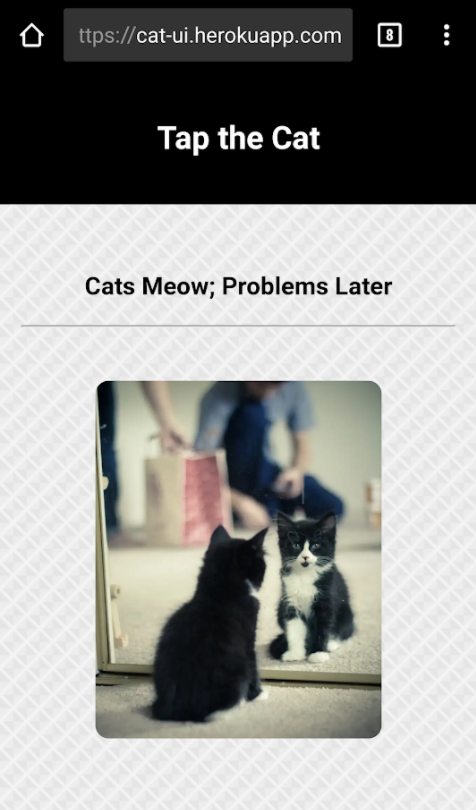
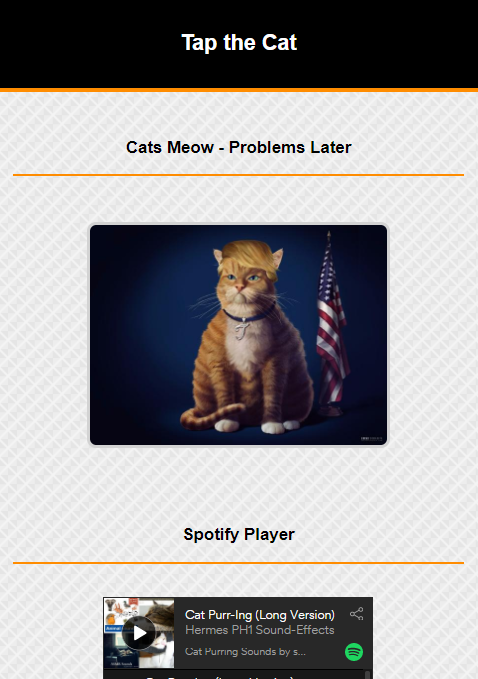
style updates and added credits

diff --git a/src/App.js b/src/App.js
@@ -12,6 +12,7 @@ const Title = styled.div`
   margin: auto;
   padding: 1em;
   margin-bottom: 1em;
+  border-bottom: 0.25em solid darkorange;
 `;
 
 const Middle = styled.div``;
@@ -23,6 +24,12 @@ const Footer = styled.div`
   margin: auto;
   padding: 1em;
   margin-top: 1em;
+  border-top: 0.25em solid darkorange;
+`;
+
+const Linkage = styled.a`
+  color: darkorange;
+  text-decoration: none;
 `;
 
 const size = {
@@ -42,14 +49,12 @@ class App extends Component {
         <Flex flexWrap="wrap">
           <Box p={3} width={[1, 3 / 4]}>
             <Middle>
-              <h3>Cats Meow; Problems Later</h3>
-              <hr />
+              <h3>Cats Meow - Problems Later</h3>
               <Cat />
             </Middle>
           </Box>
           <Box p={3} width={[1, 1 / 4]}>
             <h3>Spotify Player</h3>
-            <hr />
             <br />
             <SpotifyPlayer
               uri="https://open.spotify.com/user/scott04069419/playlist/721IDYz5WqovHi4ozx1v36"
@@ -60,7 +65,14 @@ class App extends Component {
           </Box>
         </Flex>
         <Footer>
-          <p>&copy; Daniel McMahon 2018</p>
+          <p>
+            &copy; Daniel McMahon 2018
+            <br />
+            <br />
+            Powered by{" "}
+            <Linkage href="https://cataas.com">Cat as a Service</Linkage> &{" "}
+            <Linkage href="http://thecatapi.com/">The Cat API</Linkage>
+          </p>
         </Footer>
       </div>
     );

diff --git a/src/App.css b/src/App.css
@@ -3,31 +3,7 @@
   background-image: url("./Images/stonehaven.png");
 }
 
-.App-logo {
-  animation: App-logo-spin infinite 20s linear;
-  height: 80px;
-}
-
-.App-header {
-  background-color: #222;
-  height: 150px;
-  padding: 20px;
-  color: white;
-}
-
-.App-title {
-  font-size: 1.5em;
-}
-
-.App-intro {
-  font-size: large;
-}
-
-@keyframes App-logo-spin {
-  from {
-    transform: rotate(0deg);
-  }
-  to {
-    transform: rotate(360deg);
-  }
+h3 {
+  padding-bottom: 1em;
+  border-bottom: 0.1em solid darkorange;
 }

diff --git a/src/Components/Cat.js b/src/Components/Cat.js
@@ -12,6 +12,7 @@ const CatPic = styled.img`
   &:hover {
     cursor: pointer;
   }
+  border: 0.2em solid lightgrey;
 `;
 
 class Cat extends Component {

diff --git a/README.md b/README.md
@@ -1,24 +1,30 @@
 # Cat Service
 
 This project is setup for experimentation with the Express library and API communications.
-The service uses [The Cat API](http://thecatapi.com/) running via a Node/[Express](https://expressjs.com/) frontend for backend solution.
+The service uses [The Cat API](http://thecatapi.com/), [Cat as a Service](https://cataas.com/) and runs via a Node/[Express](https://expressjs.com/) frontend for backend solution.
 
-Due to the use of Express this service has been deployed via [Heroku](https://www.heroku.com/) as a free hosting solution. The services is auto deployed everytime the master branch is updated.
+Due to the use of Express this service has been deployed via [Heroku](https://www.heroku.com/) as a free hosting solution. The service is auto deployed everytime the master branch is updated.
 
-The service currently allows the user to click an image and view a new Cat. The frontend is displayed on a basic [React](https://reactjs.org/) frontend. An additional Spotify player has been included with random cat ASMR tracks. (generated using the [react-spotify-player](https://www.npmjs.com/package/react-spotify-player) library)
+The service currently allows the user to click an image and view a new Cat image loaded from an API. The frontend is displayed on a basic [React](https://reactjs.org/) frontend. An additional Spotify player has been included with random cat ASMR tracks. (generated using the [react-spotify-player](https://www.npmjs.com/package/react-spotify-player) library)
 
-![Screenshot](/screenshots/mobile-screenshot.png)
+## Mobile
+
+![Mobile Screenshot](/screenshots/mobile-screenshot.png)
+
+## Desktop
+
+![Desktop Screenshot](/screenshots/desktop-screenshot.png)
 
 ## Running Locally
 
-You will need to build the app locally and run straight from the build. A proxy is setup in the package.json that should allow for service to auto forward to port 8080:
+You will need to build the app locally and run straight from the build. A proxy is setup in the package.json that should allow for the service to auto forward to port 8080:
 
 ```
 npm run build
 npm run start
 ```
 
-An additional debugging option is available at `npm run dev`. Note that calls to the server will not function correctly in this mode.
+An additional debugging option is available at `npm run dev` to help aid in local style formatting. Note that calls to the server will not function correctly in this mode.
 
 ## Further Applications Ideas
 
@@ -29,8 +35,8 @@ An additional debugging option is available at `npm run dev`. Note that calls to
 * Improved UI layout & design
 
   * Integration of [Grid-Styled](https://github.com/jxnblk/grid-styled) library ✔ Completed
-  * Integration of [React-Bootstrap](https://react-bootstrap.github.io/components/navbar/) Navbar
-  * Footer: Credits to APIs & Services Used
+  * Integration of [React-Bootstrap](https://react-bootstrap.github.io/components/navbar/) Navbar [needs more features first]
+  * Footer: Credits to APIs & Services Used included in Footer ✔ Completed
 
 * Additional Components
 
@@ -38,4 +44,4 @@ An additional debugging option is available at `npm run dev`. Note that calls to
   * Carousel options
 
 * Hosting
-  * Host publically -> due to local server an alternate free service to Github Pages required (Heroku perhaps...) ✔ Completed
+  * Host publically -> due to use of server an alternate free service to Github Pages required (Heroku perhaps...) ✔ Completed
